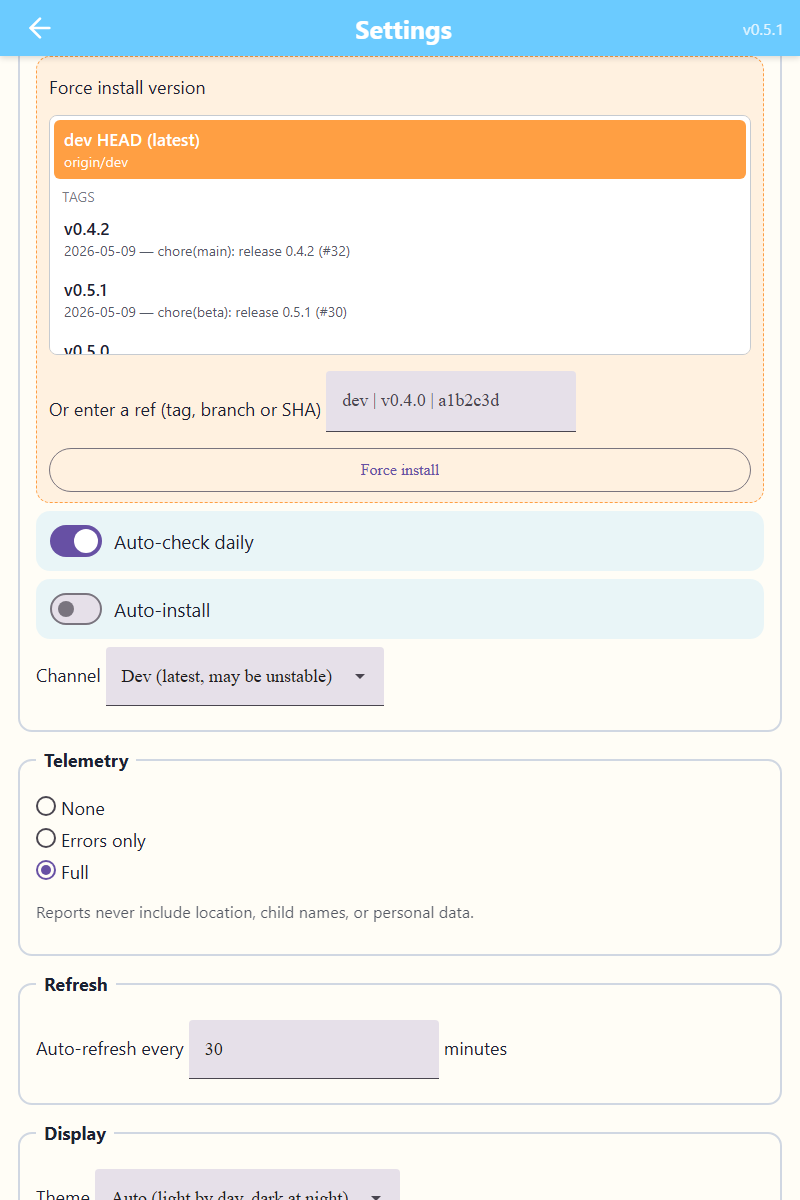
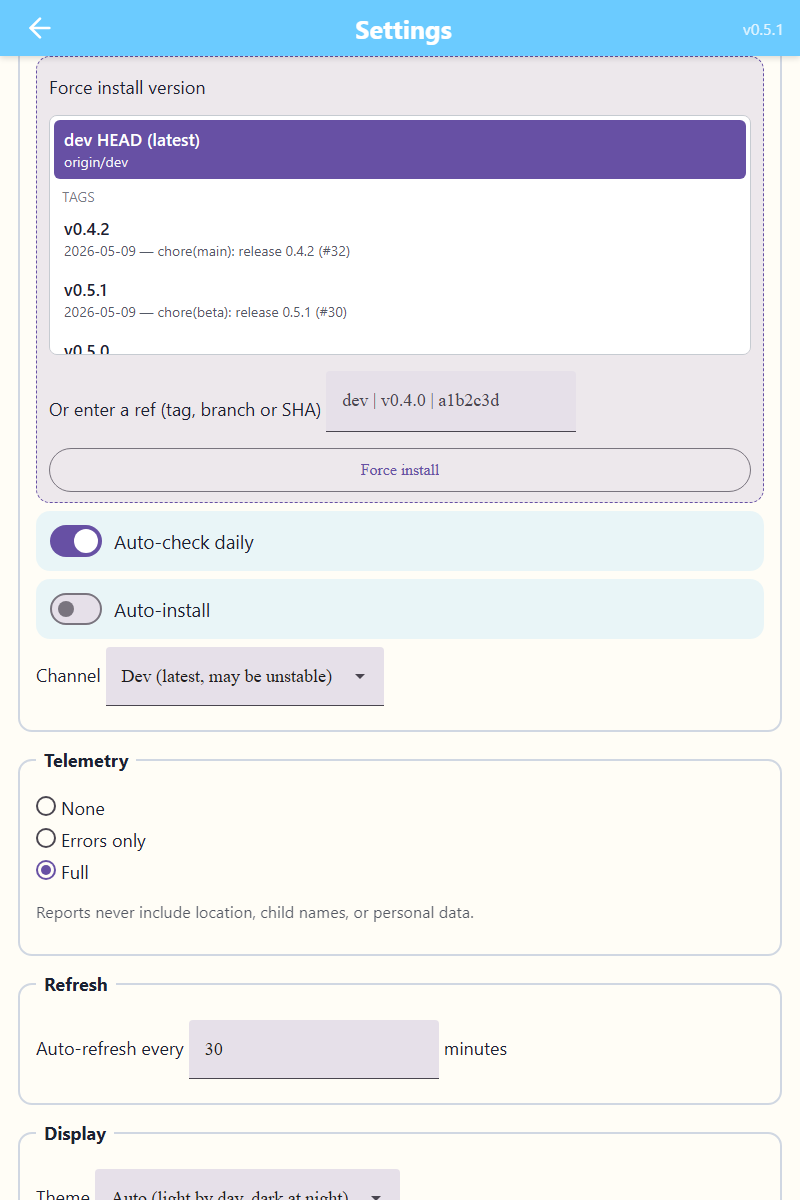
fix(theme): dropdowns stay open; bigger child-row gaps; hide Add child at cap
Dropdown bug: the trace showed Material's <md-filled-select> opening
its menu, then a synthesized click event bubbling from the hidden
proxy <select> back up the tree, hitting Material's outside-click
detector and closing the menu instantly. Fix: install a
capture-phase click handler on every proxy that stops propagation.

Layout: padding 8->16, gap 8->12, drop trailing border on the last
child row so the divider only sits between rows.

Add child: hide entirely (not just disabled) when 2 children exist.
Toggle the themed replacement's visibility too.

Changed region(s): [[0.0625, 0.0925, 0.9375, 0.1542]]

diff --git a/static/js/settings.js b/static/js/settings.js
@@ -184,7 +184,18 @@
       row.append(nameInput, genderSel, comfortLabel, rm);
       list.append(row);
     });
-    $('add-child').disabled = cfg.children.length >= 2;
+    const atCap = cfg.children.length >= 2;
+    $('add-child').disabled = atCap;
+    $('add-child').hidden = atCap;
+    // Themed replacement (md-outlined-button etc.) lives next to the
+    // proxy and was hidden via display:none on the proxy; we need to
+    // toggle the replacement's visibility too.
+    let r = $('add-child').nextSibling;
+    while (r && r.nodeType !== 1) r = r.nextSibling;
+    if (r && r.dataset && r.dataset.uiEnhanced === '1') {
+      r.hidden = atCap;
+      r.style.display = atCap ? 'none' : '';
+    }
   }
 
   function renderAll() {

diff --git a/static/js/ui/enhance.js b/static/js/ui/enhance.js
@@ -58,6 +58,14 @@ function copyAttrs(src, dst) {
 function hideProxy(el) {
   el.style.display = 'none';
   el.dataset.uiProxy = '1';
+  // Stop synthesized click events on the hidden proxy from bubbling.
+  // Material's <md-filled-select> opens its menu, then somehow fires
+  // a click event that hits the proxy <select>; if it bubbles back
+  // up, Material's outside-click detector closes the menu instantly.
+  if (!el._uiProxyClickGuarded) {
+    el.addEventListener('click', (e) => e.stopPropagation(), true);
+    el._uiProxyClickGuarded = true;
+  }
 }
 
 /** Re-read the proxy's current value into its themed replacement. Used

diff --git a/static/css/style.css b/static/css/style.css
@@ -385,11 +385,13 @@ legend { font-weight: 700; padding: 0 8px; }
   grid-template-areas:
     "name gender remove"
     "comfort comfort comfort";
-  gap: 8px;
+  gap: 12px;
   align-items: center;
-  padding: 8px 0;
+  padding: 16px 0;
   border-bottom: 1px solid #e8eef5;
 }
+.child-row + .child-row { padding-top: 16px; }
+.child-row:last-of-type { border-bottom: none; }
 .child-row > input[type="text"] { grid-area: name; }
 .child-row > select { grid-area: gender; }
 .child-row > button.danger { grid-area: remove; }